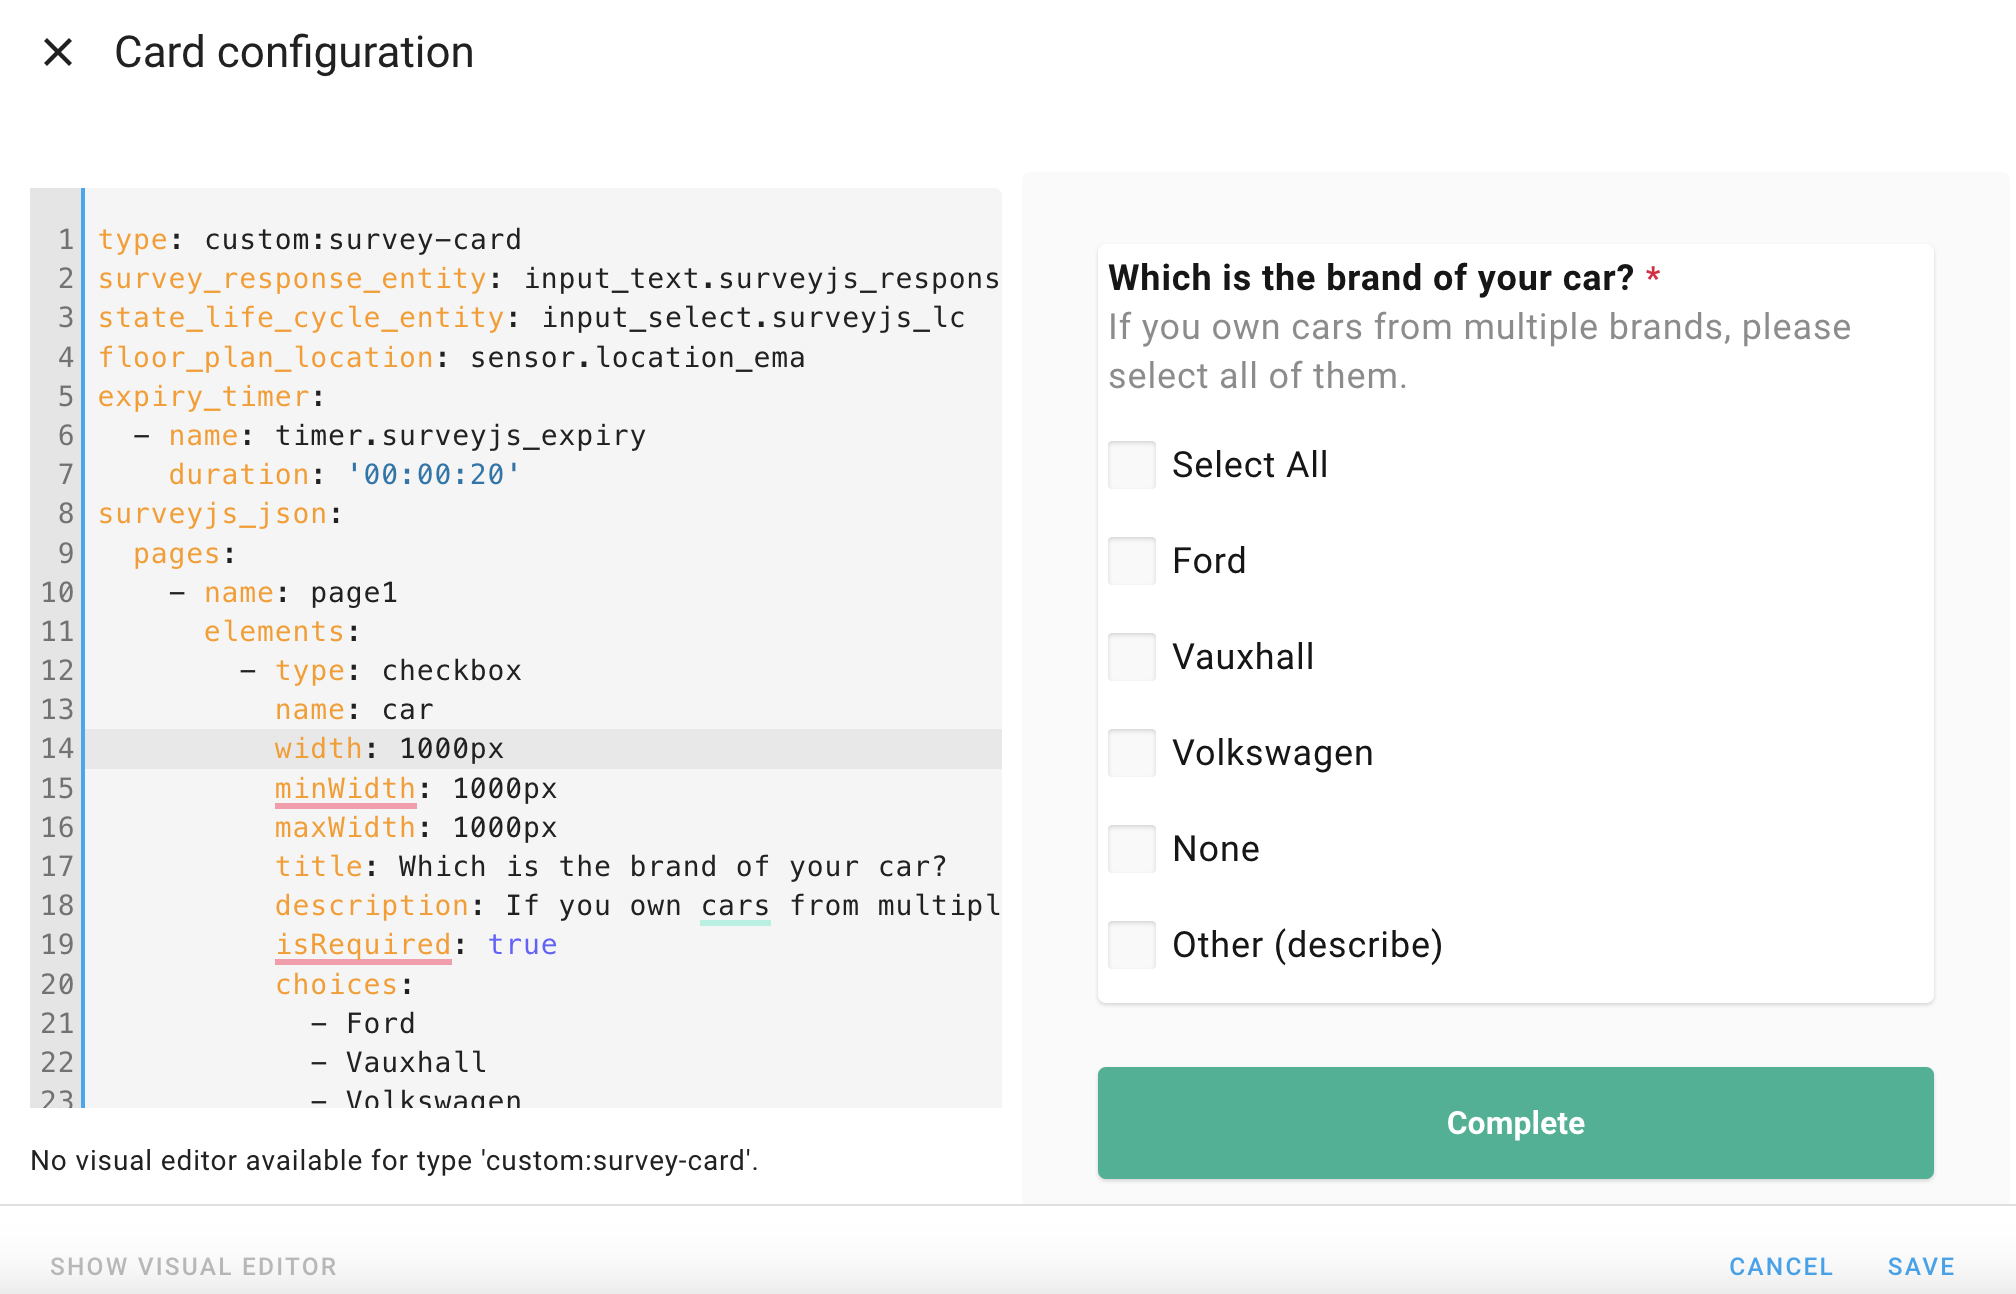
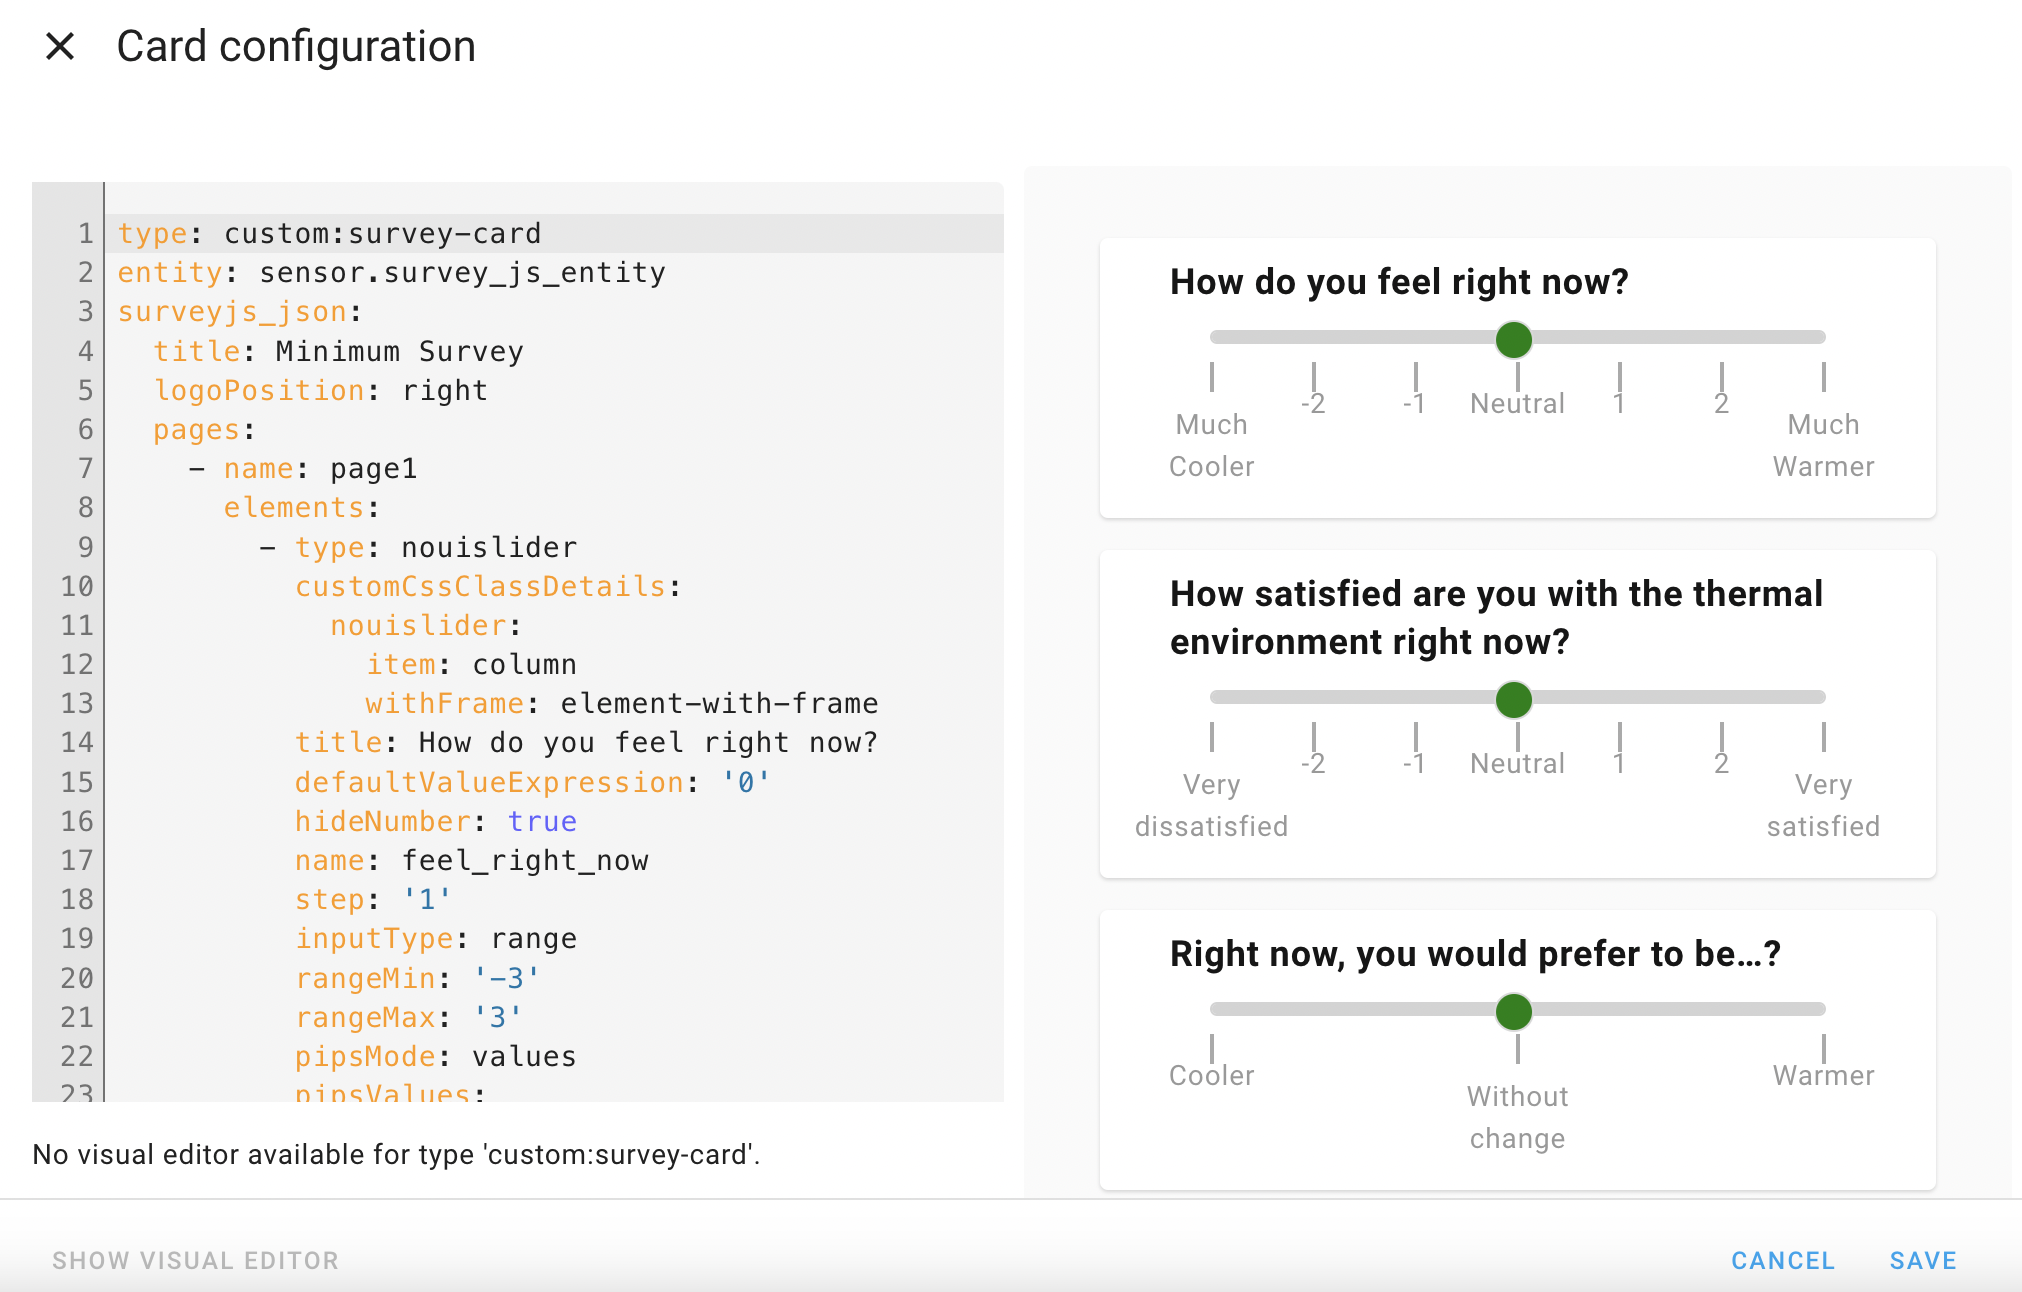
Image and sample json changes

diff --git a/README.md b/README.md
@@ -93,42 +93,295 @@ To create the survey configuration JSON for use in your Home Assistant card, fol
 In the card configuration enter:
 
 ```yaml
-type: custom:survey-card # Specifies that this card is a custom card named 'survey-card'
-survey_response_entity: input_text.surveyjs_response # Links the card to an input_text entity to store survey responses
-state_life_cycle_entity: input_select.surveyjs_lc # Links the card to an input_select entity to monitor survey lifecycle state changes
-floor_plan_location: sensor.location_ema # (Optional) Links the card to a sensor entity that stores floor plan location
-expiry_timer: # Specifies the configuration for the expiry timer
-  - name: timer.surveyjs_expiry # Defines the name of the timer used for the survey expiration
-    duration: '00:00:20' # Sets the duration of the expiry timer to 20 seconds
-surveyjs_json: # Contains the JSON configuration for the survey
-  {
-    "pages":
-      [
-        {
-          "name": "page1",
-          "elements":
-            [
-              {
-                "type": "checkbox",
-                "name": "car",
-                "width": "1000px",
-                "minWidth": "1000px",
-                "maxWidth": "1000px",
-                "title": "Which is the brand of your car?",
-                "description": "If you own cars from multiple brands, please select all of them.",
-                "isRequired": true,
-                "choices": ["Ford", "Vauxhall", "Volkswagen"],
-                "separateSpecialChoices": true,
-                "showOtherItem": true,
-                "showNoneItem": true,
-                "colCount": 2,
-                "showSelectAllItem": true,
-              },
-            ],
-        },
-      ],
-    "showQuestionNumbers": "off",
-  }
+{
+    "type": "custom:survey-card", # Specifies that this card is a custom card named 'survey-card'
+    "survey_response_entity": "sensor.survey_js_entity", # Links the card to an input_text entity to store survey responses
+    "surveyjs_json": { # Contains the JSON configuration for the survey
+        "title": "Minimum Survey",
+        "logoPosition": "right",
+        "pages": [
+            {
+                "name": "page1",
+                "elements": [
+                    {
+                        "type": "nouislider",
+                        "customCssClassDetails": {
+                            "nouislider": {
+                                "item": "column",
+                                "withFrame": "element-with-frame"
+                            }
+                        },
+                        "title": "How do you feel right now?",
+                        "defaultValueExpression": "0",
+                        "hideNumber": true,
+                        "name": "feel_right_now",
+                        "step": "1",
+                        "inputType": "range",
+                        "rangeMin": "-3",
+                        "rangeMax": "3",
+                        "pipsMode": "values",
+                        "pipsValues": [
+                            -3,
+                            -2,
+                            -1,
+                            0,
+                            1,
+                            2,
+                            3
+                        ],
+                        "pipsText": [
+                            {
+                                "value": -3,
+                                "text": "Much <br> Cooler"
+                            },
+                            {
+                                "value": 0,
+                                "text": "Neutral"
+                            },
+                            {
+                                "value": 3,
+                                "text": "Much <br> Warmer"
+                            }
+                        ],
+                        "tooltips": false
+                    },
+                    {
+                        "type": "nouislider",
+                        "customCssClassDetails": {
+                            "nouislider": {
+                                "item": "column",
+                                "withFrame": "element-with-frame"
+                            }
+                        },
+                        "title": "How satisfied are you with the thermal environment right now?",
+                        "defaultValueExpression": "0",
+                        "hideNumber": true,
+                        "name": "thermal_satisfaction",
+                        "step": "1",
+                        "inputType": "range",
+                        "rangeMin": "-3",
+                        "rangeMax": "3",
+                        "pipsMode": "values",
+                        "pipsValues": [
+                            -3,
+                            -2,
+                            -1,
+                            0,
+                            1,
+                            2,
+                            3
+                        ],
+                        "pipsText": [
+                            {
+                                "value": -3,
+                                "text": "Very <br> dissatisfied"
+                            },
+                            {
+                                "value": 0,
+                                "text": "Neutral"
+                            },
+                            {
+                                "value": 3,
+                                "text": "Very <br> satisfied"
+                            }
+                        ],
+                        "tooltips": false
+                    },
+                    {
+                        "type": "panel",
+                        "name": "dissatisfaction_details",
+                        "visibleIf": "{thermal_satisfaction} < 0",
+                        "elements": [
+                            {
+                                "type": "checkbox",
+                                "name": "dissatisfaction_reasons",
+                                "title": "You have expressed dissatisfaction with the temperature in your workspace. How would you best describe the source of this discomfort? (Check all that apply)",
+                                "choices": [
+                                    {
+                                        "value": "humidity_high",
+                                        "text": "Humidity too high (damp)"
+                                    },
+                                    {
+                                        "value": "humidity_low",
+                                        "text": "Humidity too low (dry)"
+                                    },
+                                    {
+                                        "value": "air_movement_high",
+                                        "text": "Air movement too high"
+                                    },
+                                    {
+                                        "value": "air_movement_low",
+                                        "text": "Air movement too low"
+                                    },
+                                    {
+                                        "value": "incoming_sun",
+                                        "text": "Incoming sun"
+                                    },
+                                    {
+                                        "value": "drafts",
+                                        "text": "Drafts from windows or vents"
+                                    },
+                                    {
+                                        "value": "area_hotter",
+                                        "text": "My area is hotter than others"
+                                    },
+                                    {
+                                        "value": "area_colder",
+                                        "text": "My area is colder than others"
+                                    },
+                                    {
+                                        "value": "thermostat_inaccessible",
+                                        "text": "Thermostat is inaccessible / controlled by others"
+                                    },
+                                    {
+                                        "value": "system_response",
+                                        "text": "Heating / cooling system does not respond quickly enough"
+                                    },
+                                    {
+                                        "value": "clothing_policy",
+                                        "text": "Clothing policy is not flexible enough"
+                                    },
+                                    {
+                                        "value": "cannot_open_windows",
+                                        "text": "I can't open or close the windows"
+                                    },
+                                    {
+                                        "value": "other",
+                                        "text": "Other"
+                                    }
+                                ]
+                            },
+                            {
+                                "type": "comment",
+                                "name": "other_reason",
+                                "visibleIf": "{dissatisfaction_reasons} contains 'other'",
+                                "title": "Please specify other reason"
+                            }
+                        ]
+                    },
+                    {
+                        "type": "nouislider",
+                        "customCssClassDetails": {
+                            "nouislider": {
+                                "item": "column",
+                                "withFrame": "element-with-frame"
+                            }
+                        },
+                        "title": "Right now, you would prefer to be...?",
+                        "defaultValueExpression": "0",
+                        "hideNumber": true,
+                        "name": "prefer_temperature",
+                        "step": "1",
+                        "inputType": "range",
+                        "rangeMin": "-1",
+                        "rangeMax": "1",
+                        "pipsMode": "values",
+                        "pipsValues": [
+                            -1,
+                            0,
+                            1
+                        ],
+                        "pipsText": [
+                            {
+                                "value": -1,
+                                "text": "Cooler"
+                            },
+                            {
+                                "value": 0,
+                                "text": "Without <br> change"
+                            },
+                            {
+                                "value": 1,
+                                "text": "Warmer"
+                            }
+                        ],
+                        "tooltips": false
+                    },
+                    {
+                        "type": "nouislider",
+                        "customCssClassDetails": {
+                            "nouislider": {
+                                "item": "column",
+                                "withFrame": "element-with-frame"
+                            }
+                        },
+                        "title": "Right now, you would prefer...?",
+                        "defaultValueExpression": "0",
+                        "hideNumber": true,
+                        "name": "prefer_air_movement",
+                        "step": "1",
+                        "inputType": "range",
+                        "rangeMin": "-1",
+                        "rangeMax": "1",
+                        "pipsMode": "values",
+                        "pipsValues": [
+                            -1,
+                            0,
+                            1
+                        ],
+                        "pipsText": [
+                            {
+                                "value": -1,
+                                "text": "Less air <br> movement"
+                            },
+                            {
+                                "value": 0,
+                                "text": "No <br> change"
+                            },
+                            {
+                                "value": 1,
+                                "text": "More air <br> movement"
+                            }
+                        ],
+                        "tooltips": false
+                    },
+                    {
+                        "type": "nouislider",
+                        "customCssClassDetails": {
+                            "nouislider": {
+                                "withFrame": "element-with-frame"
+                            }
+                        },
+                        "title": "How strongly do you prefer this choice?",
+                        "defaultValueExpression": "0",
+                        "hideNumber": true,
+                        "name": "preference_intensity",
+                        "step": "1",
+                        "inputType": "range",
+                        "rangeMin": "0",
+                        "rangeMax": "4",
+                        "pipsMode": "values",
+                        "pipsValues": [
+                            0,
+                            1,
+                            2,
+                            3,
+                            4
+                        ],
+                        "pipsText": [
+                            {
+                                "value": 0,
+                                "text": "Not<br>at all"
+                            },
+                            {
+                                "value": 4,
+                                "text": "Very<br>Much"
+                            }
+                        ],
+                        "tooltips": false
+                    }
+                ],
+                "title": "Preference"
+            }
+        ],
+        "showTitle": false,
+        "showPageTitles": false,
+        "showQuestionNumbers": "off",
+        "questionErrorLocation": "bottom",
+        "questionTitlePattern": "numTitle",
+        "showPrevButton": false
+    }
+}
 ```
 
 If everything went well so far, congratulations! You should now see the output of the first card you created yourself.
